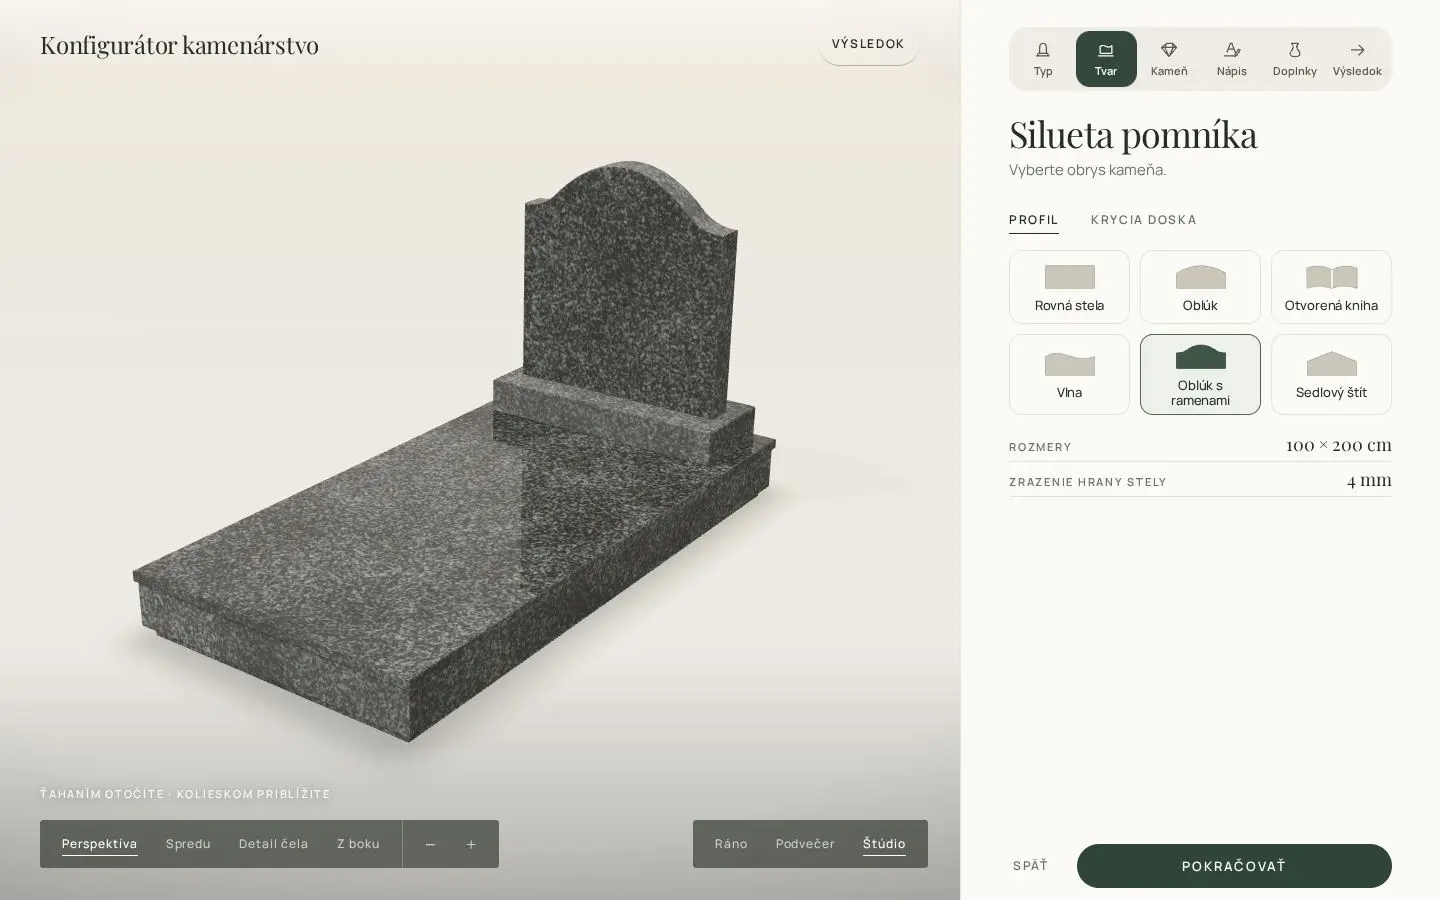
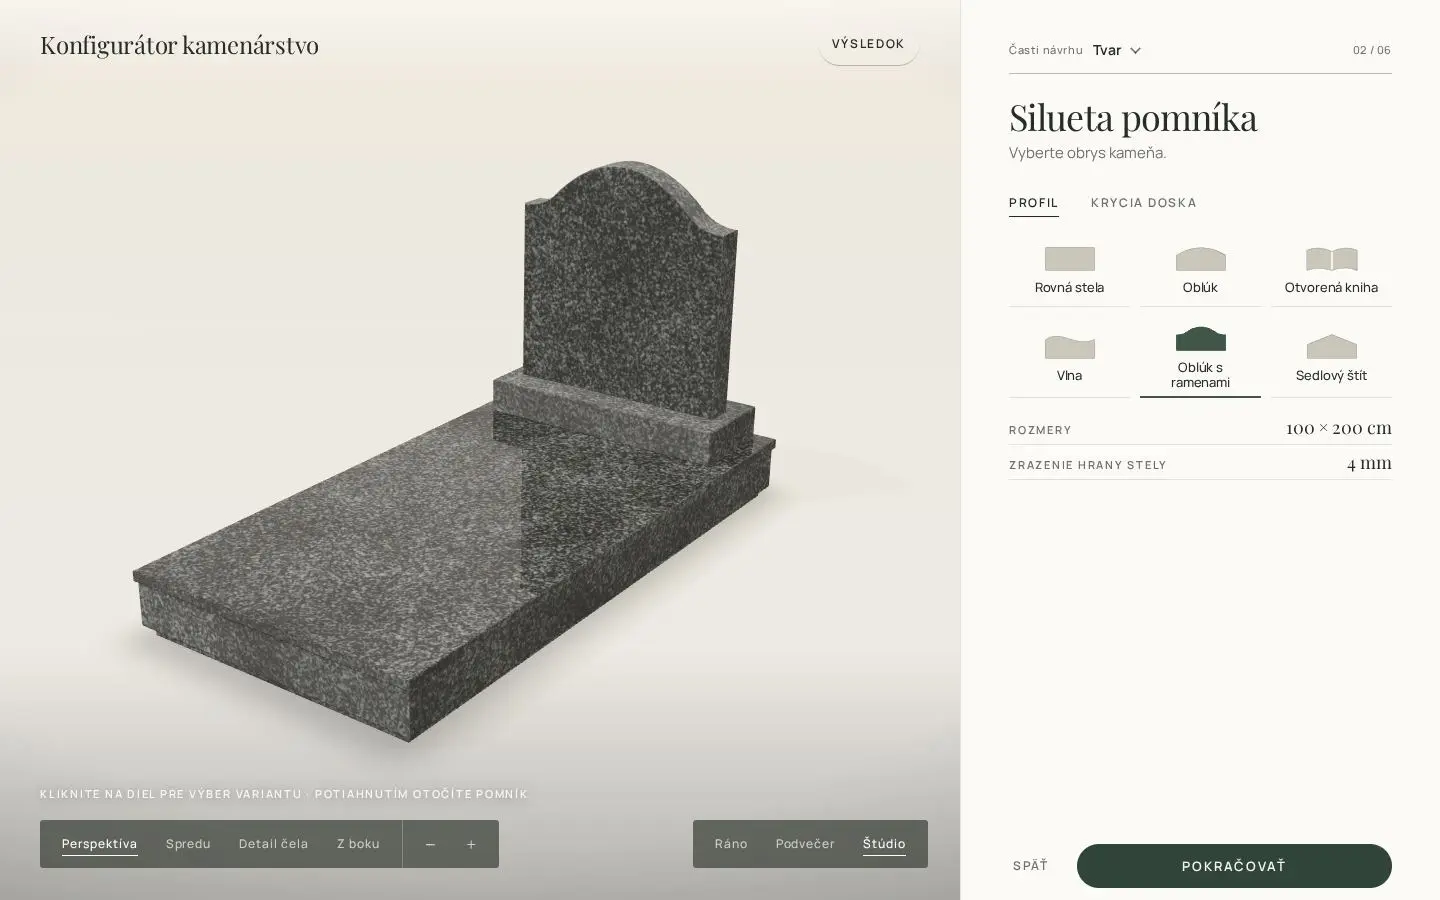
Rozhranie · katalóg vyhotovení v riadkoch a rozbaľovacie časti návrhu

diff --git a/studio/css/studio.css b/studio/css/studio.css
@@ -553,4 +553,48 @@ dialog h2{margin:6px 0;font-size:30px}
 #part-picker #variant-close{font-size:20px;border-left:1px solid #dbdfd5;border-radius:0 20px 20px 0}
 @media(max-width:760px){#part-picker{bottom:12px}.viewer:has(#part-picker:not([hidden])) .camera{visibility:hidden}}
 
+/* Chapter menu. The section stays in place while its index floats above it. */
+.chapter-bar{position:relative;z-index:5;display:flex;align-items:center;justify-content:space-between;gap:12px;margin:clamp(12px,3vh,32px) var(--pad) 0;border-bottom:1px solid var(--line-strong);flex:none}
+#chapters{position:static}
+#chapters summary{display:flex;align-items:center;gap:10px;min-height:46px;cursor:pointer;list-style:none}
+#chapters summary::-webkit-details-marker{display:none}
+#chapters summary:after{content:"";width:6px;height:6px;border-bottom:1.5px solid;border-right:1.5px solid;transform:translateY(-2px) rotate(45deg)}
+#chapters[open] summary:after{transform:translateY(2px) rotate(225deg)}
+#chapters summary span,#chapter-count{font:500 11px/1.25 var(--sans);color:var(--muted);letter-spacing:.055em}
+#chapters summary b{font:650 14px/1.3 var(--sans)}
+#chapter-count{font-variant-numeric:tabular-nums}
+#chapters #step-track{position:absolute;top:100%;left:0;right:0;margin:4px 0 0;padding:6px;background:#fbfaf6;border:1px solid var(--line);box-shadow:0 12px 28px #18241d22;border-radius:9px;grid-template-columns:1fr 1fr;gap:0}
+#chapters:not([open]) #step-track{display:none}
+#chapters #step-track button{display:flex;flex-direction:row;justify-content:flex-start;gap:9px;height:44px;border-radius:3px;padding:0 10px;font:550 13px/1 var(--sans);background:transparent;color:var(--ink)}
+#chapters #step-track button:hover{background:var(--soft)}
+#chapters #step-track button[aria-current]{background:#e8ede5;color:#294233}
+#chapters #step-track .symbol{display:block;width:17px;height:17px}
+
+/* Catalogue rows share one baseline and one continuous dividing rule. */
+#product{display:block;border-top:1px solid var(--line)}
+#product label,#product label:has(:checked){display:grid;grid-template-columns:clamp(72px,7.2vw,108px) minmax(0,1fr) 22px;grid-template-rows:1fr 1fr;column-gap:18px;row-gap:0;align-items:center;text-align:left;border:0;border-bottom:1px solid var(--line);border-radius:0;background:transparent;box-shadow:none;padding:8px 8px 8px 0;min-height:0}
+#product label:has(:checked){background:linear-gradient(90deg,transparent,#e9eee52e)}
+#product label img,#product label:has(:checked) img{grid-column:1;grid-row:1/3;width:100%;height:clamp(54px,8vh,80px);border-radius:5px;object-fit:contain;background:#eeece6;outline:0;box-shadow:none}
+#product label span{grid-column:2;grid-row:1;align-self:end;margin:0;padding:0;font:500 clamp(18px,1.6vw,25px)/1.2 var(--serif)}
+#product label small{grid-column:2;grid-row:2;align-self:start;padding:4px 0 0;color:var(--muted);font-size:12px}
+#product label::before,#product label:has(:checked)::before{content:none}
+#product label::after{content:"";grid-column:3;grid-row:1/3;justify-self:end;width:17px;height:17px;border:1px solid var(--line-strong);border-radius:50%}
+#product label:has(:checked)::after{border-color:#405648;background:#405648;box-shadow:inset 0 0 0 4px var(--panel)}
+#product label:hover{background:var(--soft)}
+#profile label,#profile label:has(:checked){border:0;border-radius:0;border-bottom:1px solid var(--line);background:transparent;box-shadow:none}
+#profile label:has(:checked){border-bottom:2px solid #405648}
+#cover label,#cover label:has(:checked){border:0;border-bottom:1px solid var(--line);border-radius:0;box-shadow:none}
+@media(max-width:760px){
+ .chapter-bar{margin:0 var(--pad)}
+ #chapters summary{min-height:38px}
+ #product label,#product label:has(:checked){grid-template-columns:74px minmax(0,1fr) 20px;gap:0 14px;padding:4px 6px 4px 0}
+ #product label img,#product label:has(:checked) img{height:45px}
+ #product label span{font-size:17px}#product label small{padding-top:2px;font-size:11px}
+}
+@media(max-width:760px) and (max-height:700px){
+ #product label img,#product label:has(:checked) img{height:35px}
+ #product label,#product label:has(:checked){grid-template-columns:58px minmax(0,1fr) 20px;padding-block:2px}
+ #chapters summary{min-height:31px}
+}
+
 .viewer:has(#part-picker:not([hidden])) .drag-hint{visibility:hidden}

diff --git a/studio/js/app.js b/studio/js/app.js
@@ -47,8 +47,14 @@ async function start(){
   const restored=readDesign();
   if(types.includes(restored?.type))product.select(restored.type);
   let stoneId=katalog.kamene.includes(restored?.stone)?restored.stone:katalog.kamene[0];
+  function shapeHeading(){
+    const isCover=el('profile-field').hidden;
+    el('step-title').textContent=isCover?t.cover:t.stepTitles[1];
+    el('step-hint').textContent=isCover?t.coverHint:t.stepHints[1];
+  }
   function showShapePart(part){
     el('profile-field').hidden=part!=='profile';el('cover-field').hidden=part!=='cover';
+    if(!el('shape-tools').closest('[data-step]').hidden)shapeHeading();
     for(const button of el('shape-tools').children)button.setAttribute('aria-pressed',String(button.dataset.shapePart===part));
   }
   for(const button of el('shape-tools').children)button.onclick=()=>{closePicker();showShapePart(button.dataset.shapePart);};
@@ -177,7 +183,7 @@ async function start(){
     options[(index+direction+options.length)%options.length]?.click();
   }
   el('variant-prev').onclick=()=>cycle(-1);el('variant-next').onclick=()=>cycle(1);
-  function dismiss(){closePicker();tabs[step].focus({preventScroll:true});}
+  function dismiss(){closePicker();chapterButton.focus({preventScroll:true});}
   el('variant-close').onclick=dismiss;
   picker.onkeydown=e=>{
     if(e.key==='Escape'){dismiss();e.preventDefault();}
@@ -209,10 +215,13 @@ async function start(){
   }
   const panels=[...document.querySelectorAll('[data-step]')];
   const stepViews=['angle','angle','angle','detail','angle','front'];
+  const chapters=el('chapters'),chapterButton=chapters.querySelector('summary');
+  chapters.onkeydown=e=>{if(e.key==='Escape'){chapters.open=false;chapterButton.focus();}};
+  document.addEventListener('pointerdown',e=>{if(!chapters.contains(e.target))chapters.open=false;});
   const tabs=t.editTabs.map((label,i)=>{
     const button=document.createElement('button');button.type='button';
     button.append(icon(['model','profil','kamen','napis','doplnky','vysledok'][i]),document.createTextNode(label));
-    button.onclick=()=>go(i);el('step-track').append(button);return button;
+    button.onclick=()=>{go(i);chapterButton.focus({preventScroll:true});};el('step-track').append(button);return button;
   });
   el('next').onclick=()=>go(step+1);el('back').onclick=()=>go(step-1);
   el('review').onclick=()=>go(5);
@@ -221,11 +230,14 @@ async function start(){
     if(matchMedia('(max-width:760px)').matches){
       if(move&&tier===0)sheet(1);
     }
+    chapters.open=false;el('chapter-name').textContent=t.editTabs[i];
+    el('chapter-count').textContent=String(i+1).padStart(2,'0')+' / '+String(t.editTabs.length).padStart(2,'0');
     step=i;panels.forEach((panel,j)=>panel.hidden=i!==j);
     tabs.forEach((tab,j)=>tab.setAttribute('aria-pressed',String(j===i)));
     el('review').setAttribute('aria-pressed',String(i===5));
     el('step-title').textContent=t.stepTitles[i];
     el('step-hint').textContent=t.stepHints[i];el('step-progress').value=i+1;
+    if(i===1)shapeHeading();
     el('back').hidden=i===0;el('next').hidden=i===5;el('to-inquiry').hidden=i!==5;
     tabs.forEach((tab,j)=>j===i?tab.setAttribute('aria-current','step'):tab.removeAttribute('aria-current'));
     el('step-scroll').scrollTop=0;

diff --git a/studio/index.html b/studio/index.html
@@ -30,7 +30,10 @@
     <aside>
       <button id="handle" aria-controls="sheet-content" data-label="sheet"><i></i></button>
       <div id="sheet-content">
-        <nav id="step-track" data-label="editAreas"></nav>
+        <div class="chapter-bar"><details id="chapters">
+          <summary><span data-t="editAreas"></span><b id="chapter-name"></b></summary>
+          <nav id="step-track" data-label="editAreas"></nav>
+        </details><span id="chapter-count"></span></div>
         <progress id="step-progress" max="6" value="1" data-label="steps"></progress>
         <div class="scroll-panel" id="step-scroll">
           <h1 id="step-title" tabindex="-1"></h1><p id="step-hint"></p>
